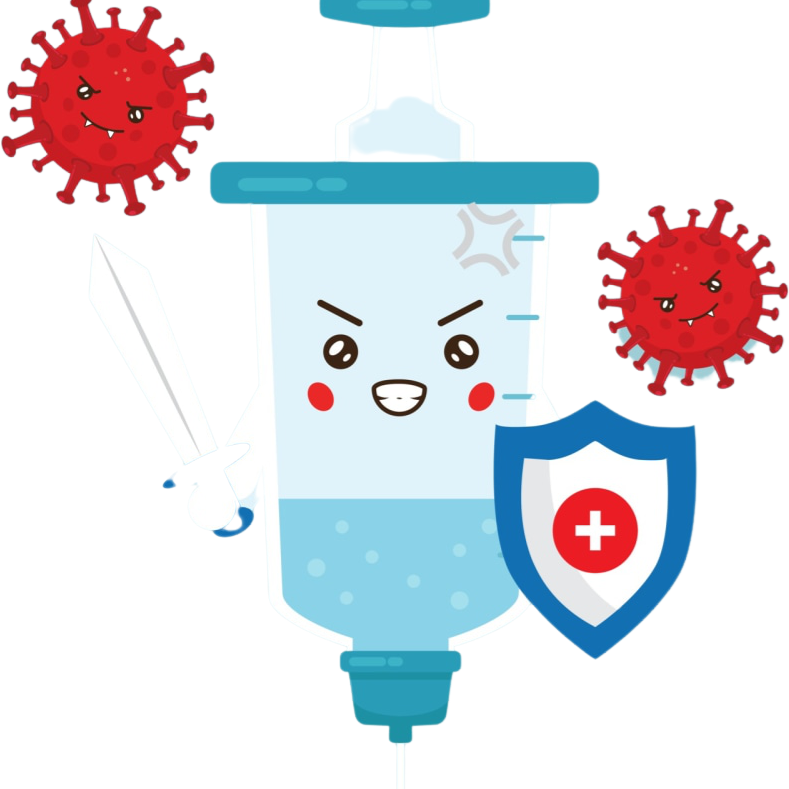
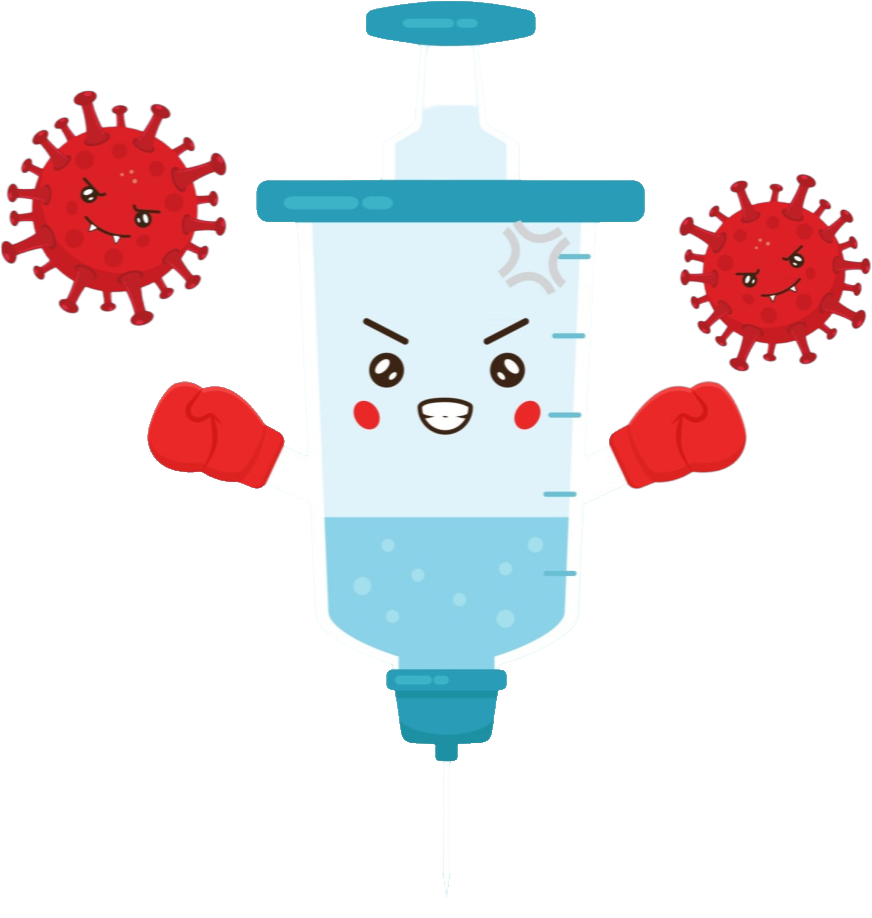
vaccine

diff --git a/js/champions.js b/js/champions.js
@@ -10,34 +10,40 @@ const files = {
 
 files.champion1.src = "./assets/sprites/plant.png";
 files.champion1.src = "./assets/test3.png";
-files.champion2.src = "./assets/sprites/red.png";
+files.champion2.src = "./assets/test4.png";
 
 
 class Champion {
     constructor(x, y) {
+        this.chosenChampion = chosenChampion;
         this.x = x;
         this.y = y;
+        // display dimensions 
         this.width = constants.cellSize - constants.cellGap * 2;
         this.height = constants.cellSize - constants.cellGap * 2;
-        // this.width = 150;
-        // this.height = 150;
-        this.shooting = false;
-        this.shootNow = false;
-        this.health = 100;
-        this.timer = 0;
-        this.frameX = 0;
-        this.frameY = 0;
+        // sprite dimensions
         this.spriteWidth = 150;
         this.spriteHeight = 150;
+        // shooting determines the shooting frame, shootNow determines when projectile fires
+        this.shooting = false;
+        this.shootNow = false;
+        // frame of the spritesheet
+        this.frameX = 0;
+        // first frame and last frame
         this.minFrame = 0;
         this.maxFrame = 5;
-        this.chosenChampion = chosenChampion;
+
+
+
+        // make maxFrame and health arguments
+        // timer used for special effects particular to this champion, perhaps ability
+        this.health = 100;
+        this.timer = 0;
+        
 
     }
 
     draw() {
-        // constants.ctx.fillStyle = "blue";
-        // constants.ctx.fillRect(this.x, this.y, this.width, this.height);
         constants.ctx.fillStyle = "black";
         constants.ctx.font = "30px Arial";
         constants.ctx.fillText(Math.floor(this.health), this.x + 15, this.y + 5);
@@ -70,17 +76,18 @@ class Champion {
         if (constants.frame % 25 === 0) {
             if (this.frameX < this.maxFrame) this.frameX++;
             else this.frameX = this.minFrame;
-            if (this.frameX === 1) this.shootNow = true;
+            // last frame where the shot will be fired
+            if (this.frameX === 5) this.shootNow = true;
         }
 
         
         // if champion sprite sheet has different frames, use if elif to adjust
         if (this.shooting) {
-            this.minFrame = 0;
-            this.maxFrame = 3;
-        } else {
-            this.minFrame = 4;
+            this.minFrame = 2;
             this.maxFrame = 5;
+        } else {
+            this.minFrame = 0;
+            this.maxFrame = 1;
         }
 
         if (this.shooting && this.shootNow) {

diff --git a/README.md b/README.md
@@ -9,3 +9,8 @@
 - change every function from "handlexyz" to "updatechampionframe"
 
 - if in idle, slower update frame
+- remove the arms from vaccine head
+
+
+## non essential
+- add hurt animation for champs and enemies
